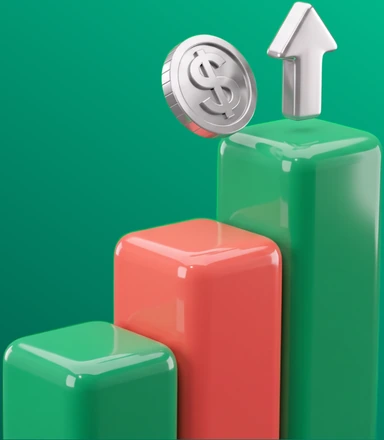
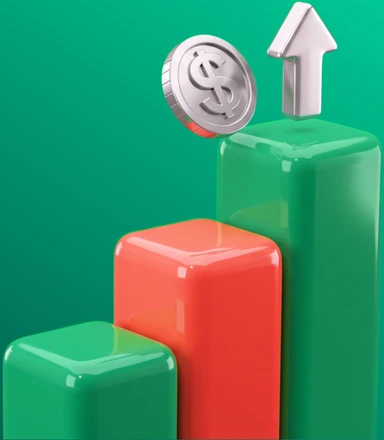
Align the risk : reward chart left; update the stock card art
Position size: the price axis column is only as wide as its longest
price, so the chart starts at the results' left edge like the other
results. On narrow phones, prices of $10,000+ use the short form ($59.9k),
long figures wrap and the entry label tightens instead of overflowing.

Stock calculator card: new 3D artwork and gradient (#014c3e → #01d9a0)
from Figma; share images regenerated.

diff --git a/trading_calculators/calc.css b/trading_calculators/calc.css
@@ -1086,7 +1086,7 @@ html[data-theme="light"] .calc-page:not([data-calc="margin"]) .calc-out:has(.res
 .hub-card__img { position: absolute; right: 6.35%; object-fit: contain; object-position: right bottom; transform-origin: 70% 100%; transition: transform 0.5s ease; }
 .hub-card:hover .hub-card__img { transform: scale(1.04); }
 @media (prefers-reduced-motion: reduce) { .hub-card__img { transition: none; } }
-.hub-card__art--stock    { background: linear-gradient(32.41deg, #014c3e 0%, #01c493 100%); }
+.hub-card__art--stock    { background: linear-gradient(32.41deg, #014c3e 0%, #01d9a0 100%); }
 .hub-card__art--crypto   { background: linear-gradient(32.41deg, #d73d04 0%, #ff9e16 100%); }
 .hub-card__art--position { background: linear-gradient(32.41deg, #011865 0%, #1988ff 100%); }
 .hub-card__art--options  { background: linear-gradient(32.41deg, #35067f 0%, #9d3ef9 100%); }
@@ -1233,3 +1233,19 @@ html[data-theme="light"] .calc-page .topnav.is-scrolled { box-shadow: 0 1px 0 va
 @media (max-width: 600px) { .calc-formula { white-space: pre; font-size: 13px; line-height: 21px; } }
 /* tablets: options' four long field labels need two per row */
 @container calctool (min-width: 480px) and (max-width: 760px) { .calc-page[data-calc="options"] .calc-form { grid-template-columns: repeat(2, minmax(0, 1fr)); } }
+/* risk : reward chart: the price column is only as wide as its longest price (sized by a hidden
+   copy of it), so the axis starts at the column's left edge like the other results */
+.rr-plot { grid-template-columns: max-content minmax(0, 1fr); gap: 12px; }
+@container calcout (max-width: 360px) { .rr-plot { grid-template-columns: max-content minmax(0, 1fr); gap: 10px; } }
+.rr-axis__w { display: block; height: 0; overflow: hidden; visibility: hidden; font-size: 14px; font-weight: 500; font-style: normal; white-space: nowrap; font-variant-numeric: tabular-nums; }
+.rr-axis b { font-weight: inherit; }
+.rr-short { display: none; }
+@container calcout (max-width: 360px) { .rr-full { display: none; } .rr-short { display: inline; } }
+@container calcout (max-width: 360px) {
+  .rr-zone { white-space: normal; line-height: 18px; }
+  .rr-zone > :first-child { flex: none; white-space: nowrap; }
+  .rr-zone > :last-child { min-width: 0; text-align: right; }
+}
+@container calcout (max-width: 360px) {
+  .rr-entry span { left: 8px; max-width: calc(100% - 16px); padding: 4px 8px; font-size: 13px; overflow: hidden; text-overflow: ellipsis; }
+}

diff --git a/trading_calculators/pages/position.js b/trading_calculators/pages/position.js
@@ -57,11 +57,15 @@
       ? `You risk ${m(r.risk)} to make ${m(t.reward)}. At ${ratio} you need to win ${be === "under 1" ? "<b>under 1%</b>" : `more than <b>${be}%</b>`} of trades to break even.`
       : t ? `At this take profit the trade still loses ${m(Math.abs(t.reward))} after fees, so there is no reward to weigh.`
       : `You risk ${m(r.risk)} (${pc(r.riskPct)} of your account) if the stop is hit.`;
+    // an axis price: in full, plus a short form ($59.9k) that narrow phones show for big prices
+    const ax = (v) => (v >= 1e4 ? `<b class="rr-full">${p(v)}</b><b class="rr-short">${CalcUI.currency.sym + CalcUI.compact(v)}</b>` : p(v));
+    const longest = [top, i.entry, bottom].filter((v) => v !== null).sort((a, b) => p(b).length - p(a).length)[0];
     const plot = `<div class="rr-plot" role="img" aria-label="${esc(`Entry ${p(i.entry)}, stop ${p(r.stop)}${t ? `, take profit ${p(t.price)}` : ""}`)}">
           <div class="rr-axis">
-            ${top !== null ? `<span style="top:0">${p(top)}</span>` : ""}
-            <span style="top:${entryAt}px">${p(i.entry)}</span>
-            ${bottom !== null ? `<span style="top:100%">${p(bottom)}</span>` : ""}
+            <i class="rr-axis__w" aria-hidden="true">${ax(longest)}</i>
+            ${top !== null ? `<span style="top:0">${ax(top)}</span>` : ""}
+            <span style="top:${entryAt}px">${ax(i.entry)}</span>
+            ${bottom !== null ? `<span style="top:100%">${ax(bottom)}</span>` : ""}
           </div>
           <div class="rr-bar">${zones}<div class="rr-entry" style="top:${entryAt}px"><span>Entry · ${esc(size)}</span></div></div>
         </div>`;
